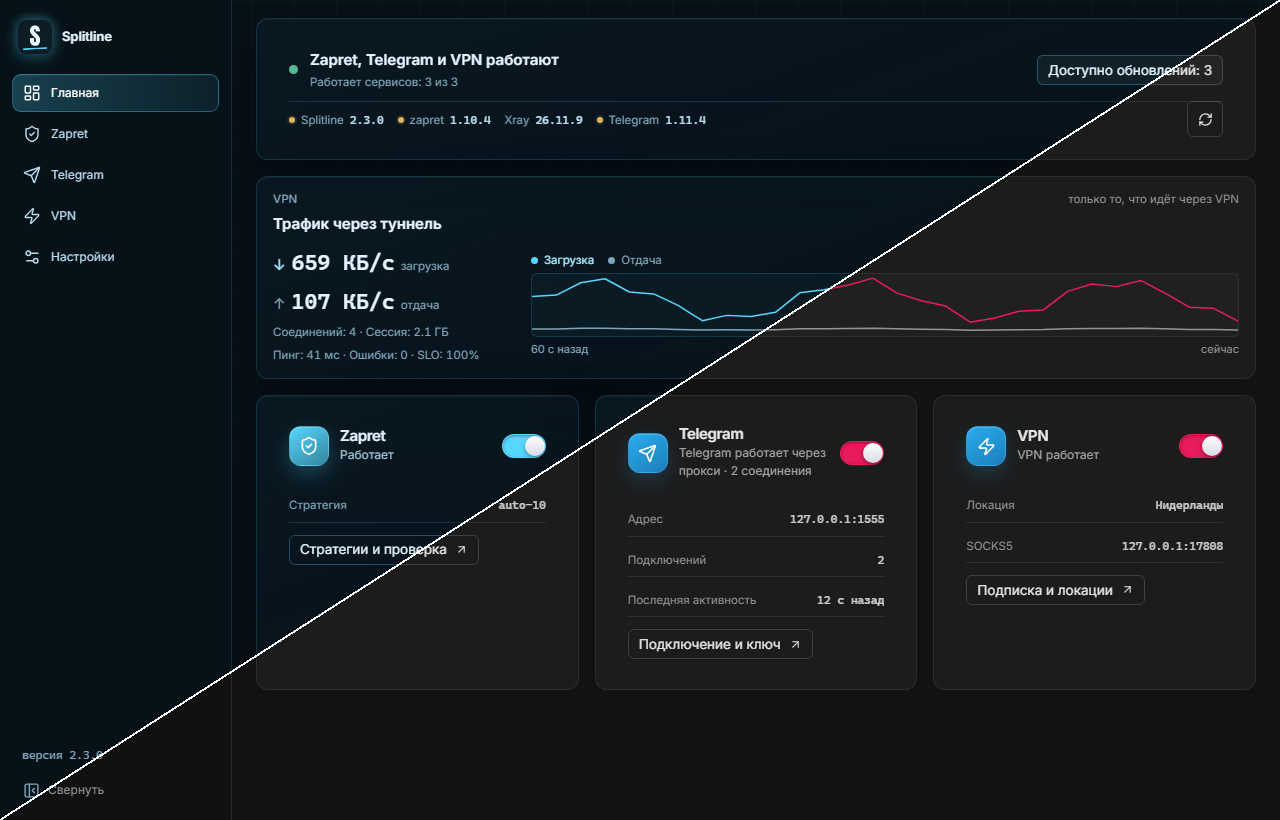
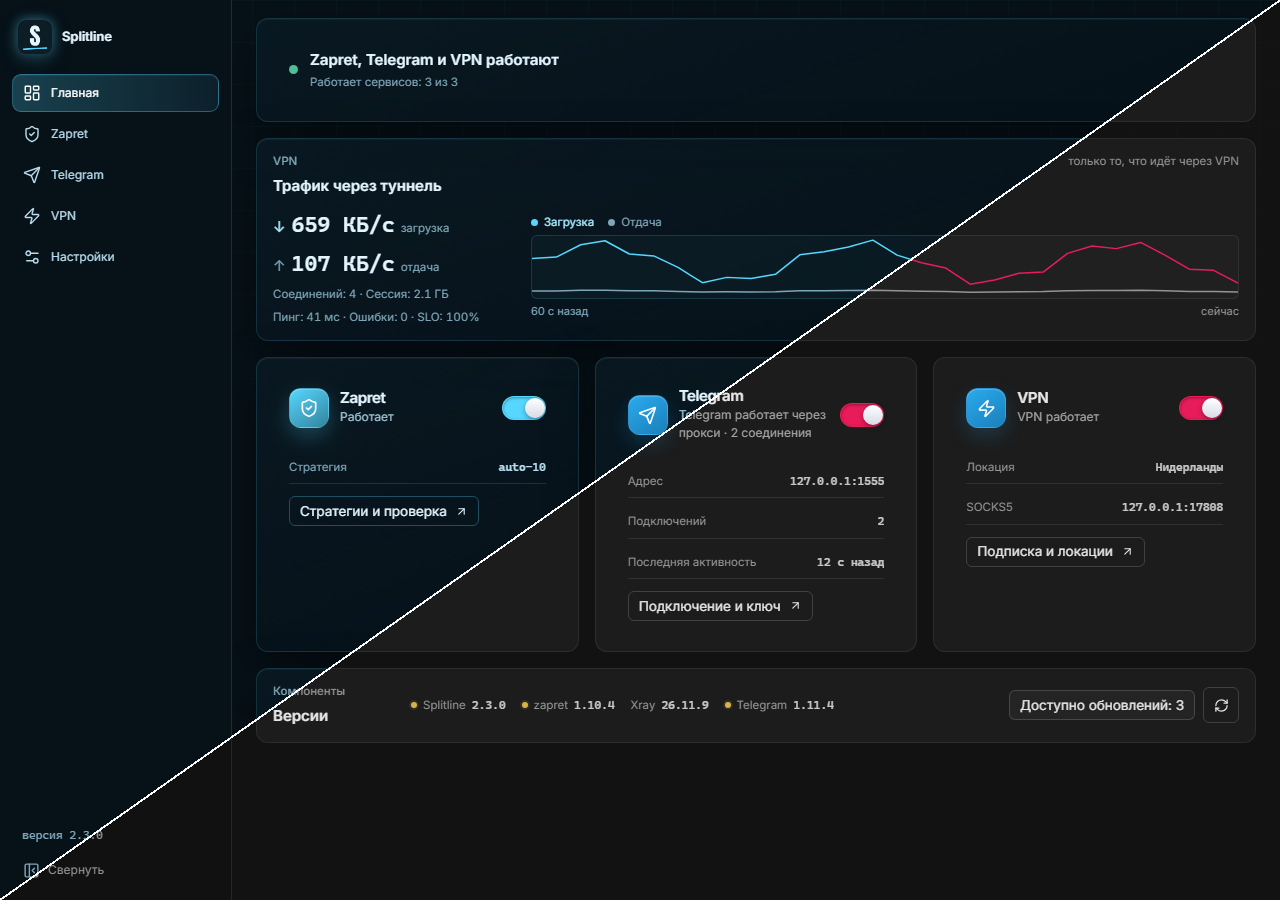
feat(home): move versions into a bottom card

diff --git a/src/pages/OverviewPage.vue b/src/pages/OverviewPage.vue
@@ -73,7 +73,7 @@ const updatesLabel = computed(() => {
   return count === 1 ? "Доступно 1 обновление" : `Доступно обновлений: ${count}`;
 });
 
-/** Any of the three checks running: the hero button spins and ignores clicks. */
+/** Any of the three checks running: the versions-card button spins and ignores clicks. */
 const checkingAllUpdates = computed(
   () => checkingAppUpdate.value || checkingUpdate.value || tgwsChecking.value,
 );
@@ -99,7 +99,7 @@ interface HeroVersion {
   update: boolean;
 }
 
-/** What is installed where: one row of versions for the hero. */
+/** What is installed where: one row of versions for the bottom card. */
 const versions = computed<HeroVersion[]>(() => [
   {
     key: "splitline",
@@ -200,35 +200,6 @@ function speedLabel(bytes: number): string {
         <div class="home-hero-text">
           <strong>{{ statusText }}</strong>
           <span class="muted">{{ heroHint }}</span>
-        </div>
-        <Button
-          v-if="updatesAvailable"
-          variant="secondary"
-          size="sm"
-          @click="router.push('/settings')"
-        >
-          {{ updatesLabel }}
-        </Button>
-        <div class="home-hero-bottom">
-          <ul class="home-hero-versions">
-            <li v-for="item in versions" :key="item.key" class="home-version">
-              <span v-if="item.update" class="home-version-dot" aria-hidden="true"></span>
-              <span class="home-version-label">{{ item.label }}</span>
-              <strong class="home-version-value">{{ item.version }}</strong>
-              <span v-if="item.update" class="sr-only">— доступно обновление</span>
-            </li>
-          </ul>
-          <Button
-            class="home-hero-refresh"
-            variant="outline"
-            size="icon"
-            title="Проверить обновления"
-            aria-label="Проверить обновления"
-            :disabled="checkingAllUpdates"
-            @click="refreshUpdates"
-          >
-            <RefreshCw :size="15" :class="{ spinning: checkingAllUpdates }" />
-          </Button>
         </div>
       </div>
     </Card>
@@ -417,5 +388,40 @@ function speedLabel(bytes: number): string {
         </CardContent>
       </Card>
     </div>
+
+    <Card class="versions-card">
+      <div class="versions-head">
+        <span class="eyebrow">Компоненты</span>
+        <strong>Версии</strong>
+      </div>
+      <ul class="versions-list">
+        <li v-for="item in versions" :key="item.key" class="home-version">
+          <span v-if="item.update" class="home-version-dot" aria-hidden="true"></span>
+          <span class="home-version-label">{{ item.label }}</span>
+          <strong class="home-version-value">{{ item.version }}</strong>
+          <span v-if="item.update" class="sr-only">— доступно обновление</span>
+        </li>
+      </ul>
+      <div class="versions-actions">
+        <Button
+          v-if="updatesAvailable"
+          variant="secondary"
+          size="sm"
+          @click="router.push('/settings')"
+        >
+          {{ updatesLabel }}
+        </Button>
+        <Button
+          variant="outline"
+          size="icon"
+          title="Проверить обновления"
+          aria-label="Проверить обновления"
+          :disabled="checkingAllUpdates"
+          @click="refreshUpdates"
+        >
+          <RefreshCw :size="15" :class="{ spinning: checkingAllUpdates }" />
+        </Button>
+      </div>
+    </Card>
   </div>
 </template>

diff --git a/src/pages/OverviewPage.test.ts b/src/pages/OverviewPage.test.ts
@@ -143,7 +143,7 @@ function versionRows(container: HTMLElement): VersionRow[] {
   }));
 }
 
-describe("OverviewPage hero versions", () => {
+describe("OverviewPage versions card", () => {
   beforeEach(() => {
     status.value = makeStatus();
     xrayStatus.value = makeXray();
@@ -208,7 +208,7 @@ describe("OverviewPage hero versions", () => {
   it("sends the updates button to the settings page", async () => {
     makeAppUpdate(true);
     const page = await mountPage();
-    const button = page.querySelector<HTMLButtonElement>(".home-hero button");
+    const button = page.querySelector<HTMLButtonElement>(".versions-card button");
 
     expect(button?.textContent?.trim()).toBe("Доступно 1 обновление");
     button?.click();
@@ -220,7 +220,7 @@ describe("OverviewPage hero versions", () => {
   it("has a quiet refresh button with an accessible name", async () => {
     const page = await mountPage();
     const button = page.querySelector<HTMLButtonElement>(
-      '.home-hero button[aria-label="Проверить обновления"]',
+      '.versions-card button[aria-label="Проверить обновления"]',
     );
 
     expect(button?.title).toBe("Проверить обновления");
@@ -228,28 +228,27 @@ describe("OverviewPage hero versions", () => {
     expect(button?.disabled).toBe(false);
   });
 
-  it("puts the refresh button at the end of the versions row", async () => {
+  it("moves the versions into a separate card at the bottom", async () => {
     const page = await mountPage();
-    const row = page.querySelector(".home-hero-bottom");
-    const button = row?.querySelector('button[aria-label="Проверить обновления"]');
+    const card = page.querySelector(".versions-card");
 
-    expect(row?.firstElementChild?.classList.contains("home-hero-versions")).toBe(true);
-    expect(row?.lastElementChild).toBe(button);
-    expect(button).not.toBeNull();
+    expect(page.querySelector(".home-hero .home-version")).toBeNull();
+    expect(card?.querySelectorAll(".versions-list .home-version")).toHaveLength(4);
+    expect(card?.querySelector('button[aria-label="Проверить обновления"]')).not.toBeNull();
   });
 
   it("spins and disables the refresh button while a check is running", async () => {
     checkingAppUpdate.value = true;
     const page = await mountPage();
     const button = page.querySelector<HTMLButtonElement>(
-      '.home-hero button[aria-label="Проверить обновления"]',
+      '.versions-card button[aria-label="Проверить обновления"]',
     );
 
     expect(button?.disabled).toBe(true);
     expect(button?.querySelector("svg")?.classList.contains("spinning")).toBe(true);
   });
 
-  it("checks all three components from the hero button", async () => {
+  it("checks all three components from the versions card", async () => {
     const invoke = vi.fn((cmd: string) => {
       if (cmd === "check_app_update") return Promise.resolve(null);
       if (cmd === "check_update") {
@@ -282,7 +281,7 @@ describe("OverviewPage hero versions", () => {
 
     const page = await mountPage();
     page
-      .querySelector<HTMLButtonElement>('.home-hero button[aria-label="Проверить обновления"]')
+      .querySelector<HTMLButtonElement>('.versions-card button[aria-label="Проверить обновления"]')
       ?.click();
 
     await vi.waitFor(() => expect(invoke).toHaveBeenCalledTimes(3));

diff --git a/src/style.css b/src/style.css
@@ -1830,7 +1830,8 @@ input[type="range"] {
 .power-card,
 .home-hero,
 .home-row,
-.traffic-card {
+.traffic-card,
+.versions-card {
   display: flex;
   flex-direction: column;
   gap: 10px;
@@ -2047,40 +2048,45 @@ input[type="range"] {
   font-weight: 600;
 }
 
-/* The last row of the hero: versions on the left, the refresh action in the
-   bottom-right corner. The button is absolute, so it never makes the row
-   taller and the card keeps its two-line height. */
-.home-hero-bottom {
-  position: relative;
-  display: flex;
-  flex: 1 1 100%;
+/* The versions strip sits at the very bottom of the page: what is installed,
+   where an update exists, and the manual check. */
+.versions-card {
+  flex-direction: row;
+  flex-wrap: wrap;
   align-items: center;
-  gap: 8px 12px;
-  order: 1;
-  padding-top: 10px;
-  border-top: 1px solid var(--glass-border);
+  gap: 10px 18px;
 }
 
-/* Installed versions: a quiet row that never competes with the status line. */
-.home-hero-versions {
+.versions-head {
+  display: flex;
+  flex-direction: column;
+  gap: 2px;
+  min-width: 120px;
+}
+
+.versions-head strong {
+  font-size: var(--fs-title);
+  font-weight: 600;
+}
+
+.versions-list {
   display: flex;
   flex: 1 1 auto;
   flex-wrap: wrap;
   align-items: center;
-  gap: 4px 14px;
+  gap: 4px 16px;
   min-width: 0;
   margin: 0;
-  /* Keep the text clear of the absolutely positioned refresh button. */
-  padding: 0 48px 0 0;
+  padding: 0;
   list-style: none;
 }
 
-/* More specific than the shared `.ui-button` rule that sets `position: relative`
-   for the button's own focus ring. */
-.home-hero-bottom .home-hero-refresh {
-  position: absolute;
-  right: 0;
-  bottom: -8px;
+.versions-actions {
+  display: flex;
+  flex-wrap: wrap;
+  align-items: center;
+  gap: 8px;
+  margin-left: auto;
 }
 
 .home-version {
@@ -2107,6 +2113,17 @@ input[type="range"] {
   border-radius: 50%;
   background: var(--warn);
   box-shadow: 0 0 0 2px var(--warn-soft);
+}
+
+@media (max-width: 1000px) {
+  .versions-head,
+  .versions-list {
+    flex: 1 1 100%;
+  }
+
+  .versions-actions {
+    margin-left: 0;
+  }
 }
 
 .power-head {

diff --git a/CHANGELOG.md b/CHANGELOG.md
@@ -10,8 +10,8 @@
 
 ### Добавлено
 
-- На «Главной» — версии Splitline, zapret, Xray и Telegram-прокси; точка показывает, где есть
-  обновление, а кнопка с иконкой проверяет обновления вручную.
+- Внизу «Главной» — отдельная карточка «Версии»: Splitline, zapret, Xray и Telegram-прокси;
+  точка показывает, где есть обновление, а кнопка с иконкой проверяет обновления вручную.
 - Telegram-прокси помечен как бесплатный: подписка и аккаунт не нужны.
 - Telegram-прокси: полный набор настроек Flowseal — Cloudflare-прокси и H2, свои и Worker-домены,
   DC → IP, буфер, пул, no-secure, force-test-dc и proxy-protocol.
